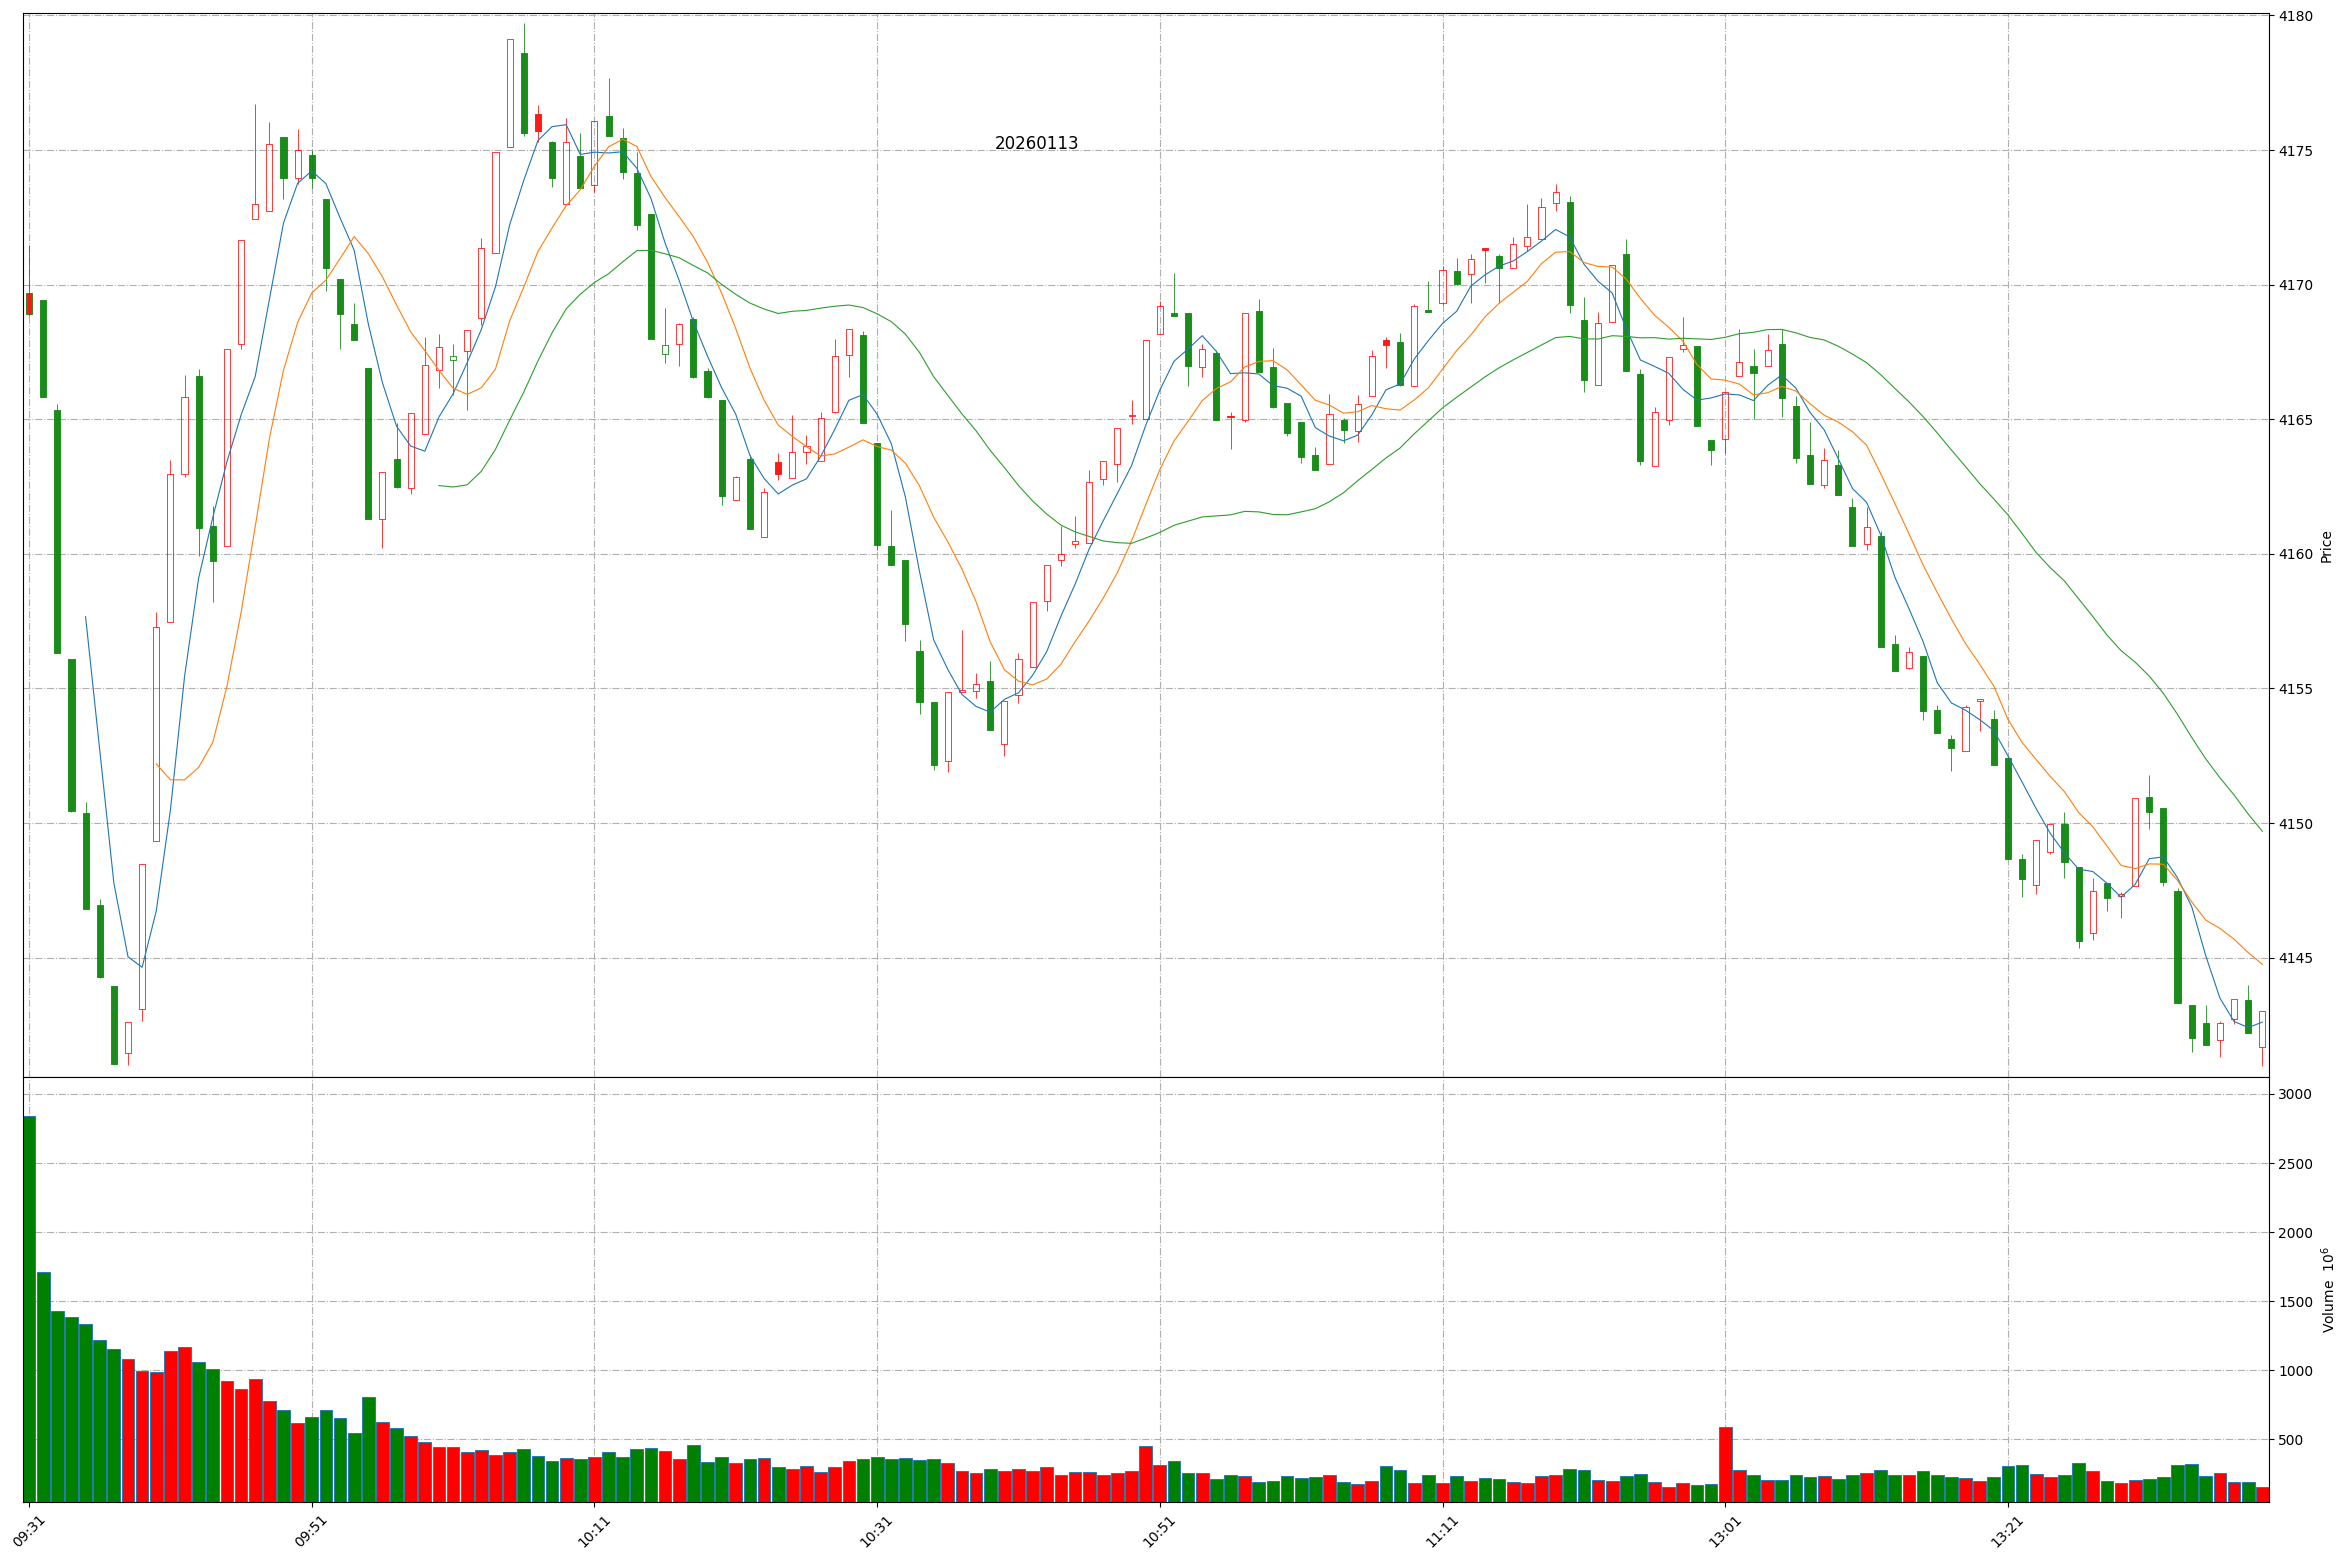
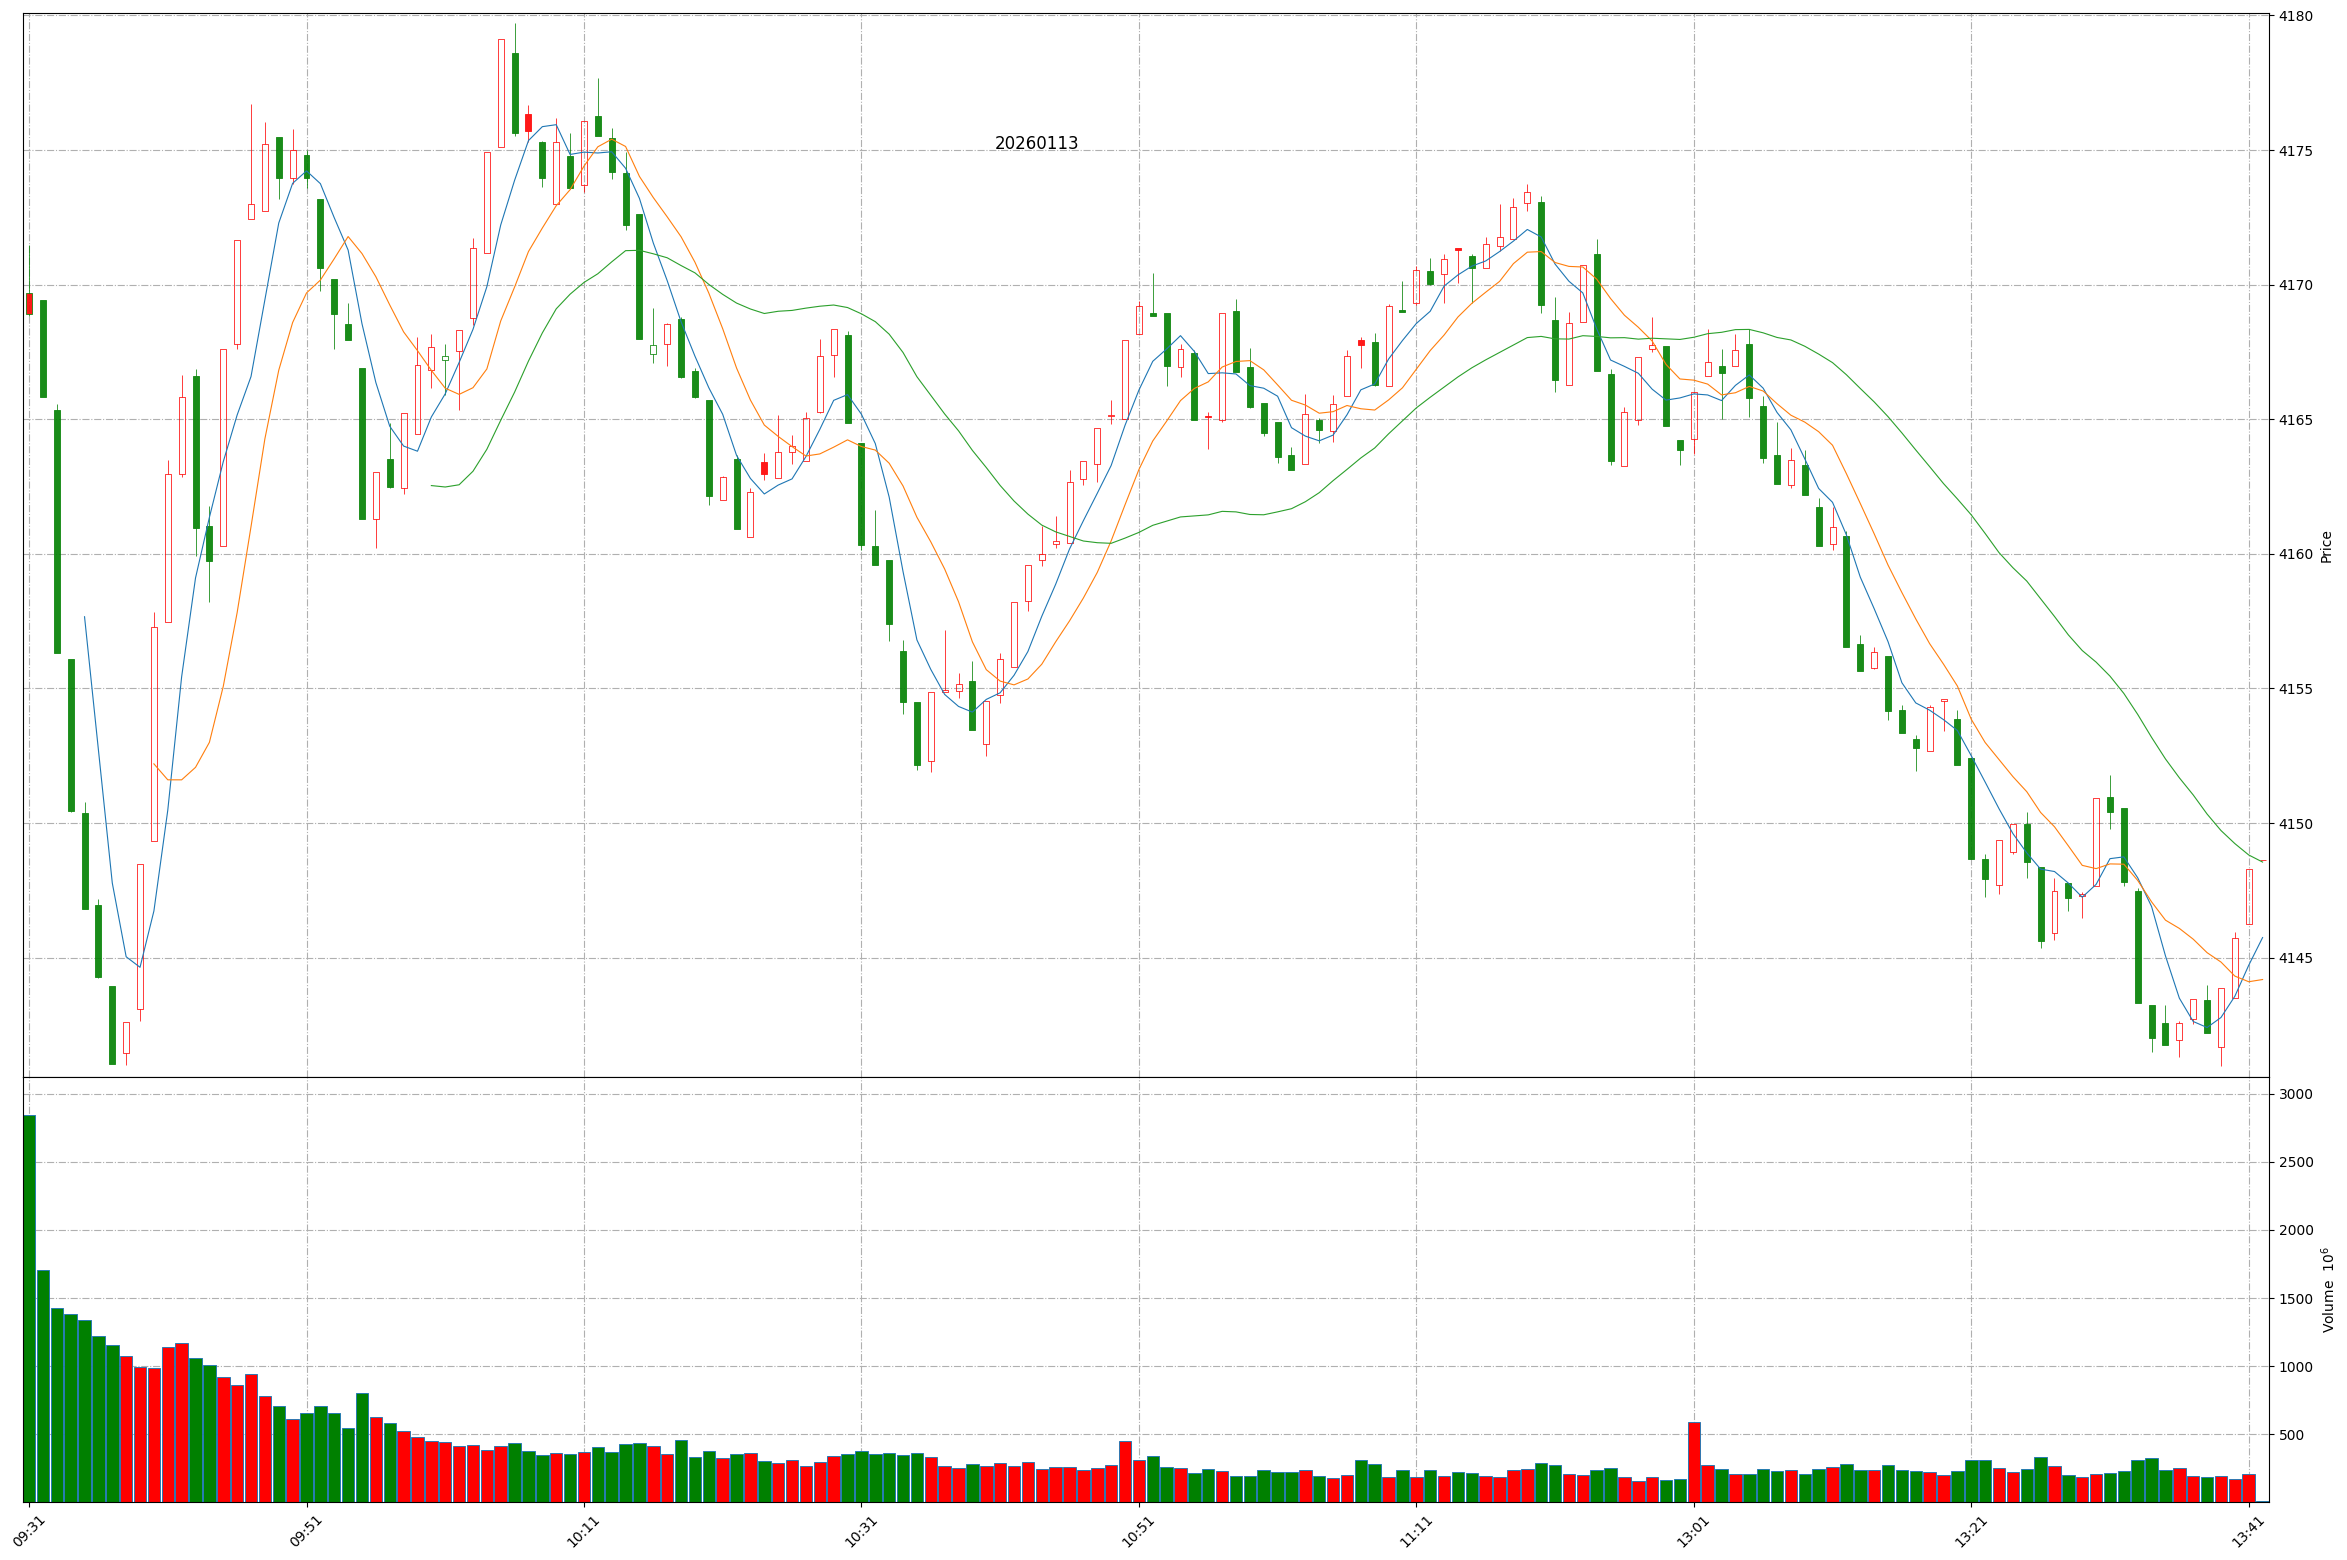
Github action update at 2026-01-13 13:41:21.

diff --git a/README.md b/README.md
@@ -1,11 +1,11 @@
 
 # Daily-A-share-market-quotes 每日 A 股指数（5min 更新）- 20260113
 
-### 上证指数 20260113 13:39
+### 上证指数 20260113 13:41
 ![](./fig/2026/1/20260113-sh000001.png)
 
-### 深证成指 20260113 13:39
+### 深证成指 20260113 13:41
 ![](./fig/2026/1/20260113-sz399001.png)
 
-### 北证50 20260113 13:39
+### 北证50 20260113 13:41
 ![](./fig/2026/1/20260113-bj899050.png)
